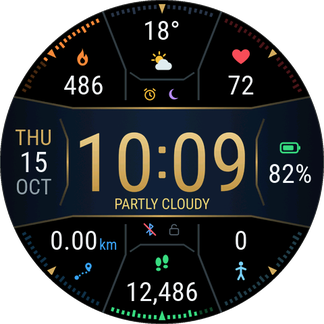
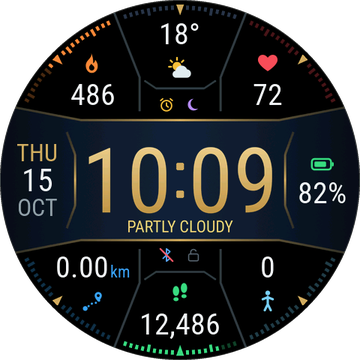
Store previews at 360x360, the size the Zepp Console accepts (#8)
Store previews at 360×360, the size the Zepp Console accepts (it rejected the 324×324 ones).

- `tools/make_covers.py` now writes `docs/store/preview_{en,sc,tc}.png` at 360×360, so they stay that size whenever the screenshots are retaken.
- Both faces' previews are regenerated (about 105 KB each).
- `docs/store.md` notes the size and the 1 MB limit.

No face code or versions change, so merging this publishes no release.

---
_Generated by [Claude Code](https://claude.ai/code/session_012KPDJFynRZHgtW6jiJMtsx)_

diff --git a/tools/make_covers.py b/tools/make_covers.py
@@ -1,7 +1,7 @@
 #!/usr/bin/env python3
 """Write a face's assets/common.r/icon.png and cover.png from its screenshots/day.png, and
-the store previews (docs/store/preview_en|sc|tc.png, 324x324: Zepp wants one per language,
-showing 10:09).
+the store previews (docs/store/preview_en|sc|tc.png, 360x360 as the Zepp Console asks, under
+1 MB, one per language, showing 10:09).
 
   python3 tools/make_covers.py faces/<face>
 """
@@ -28,5 +28,5 @@ round_img(day, 248).save(out / "icon.png")
 store = face / "docs" / "store"
 store.mkdir(parents=True, exist_ok=True)
 for lang in ("en", "sc", "tc"):                    # the face's own text is English in every language
-    round_img(day, 324).save(store / f"preview_{lang}.png")
+    round_img(day, 360).save(store / f"preview_{lang}.png")
 print(f"{face.name}: wrote cover.png, icon.png and docs/store/preview_*.png")

diff --git a/docs/store.md b/docs/store.md
@@ -5,7 +5,7 @@ What's already in place, what's left, and the store-facing text for each face. T
 ## Already in place
 
 - **Package:** CI attaches a `.zab` to every release (`faces/<face>/dist/*.zab` locally). That's the file the store takes.
-- **Previews:** `faces/<face>/docs/store/preview_en.png`, `preview_sc.png` and `preview_tc.png`, 324×324 (the size for 480×480 watches), showing 10:09 as Zepp requires. They're rewritten with the screenshots (`npm run screenshots -- <face>`). The face's own text is English in every language, so the three are the same picture.
+- **Previews:** `faces/<face>/docs/store/preview_en.png`, `preview_sc.png` and `preview_tc.png`, 360×360 and under 1 MB (what the Zepp Console accepts), showing 10:09 as Zepp requires. They're rewritten with the screenshots (`npm run screenshots -- <face>`). The face's own text is English in every language, so the three are the same picture.
 - **Languages:** the app name and every editor title are in English, Simplified and Traditional Chinese. On the watch, other languages fall back to English.
 - **Design rules** ([watch face specification](https://docs.zepp.com/docs/watchface/specification/), [watch face design](https://docs.zepp.com/docs/designs/customization/watchface/)):
   - Text is at least 22px and lines at least 1px. Text, icons and ticks stay well inside the 2px edge margin; only the band and divider lines run to the rim, by design.
